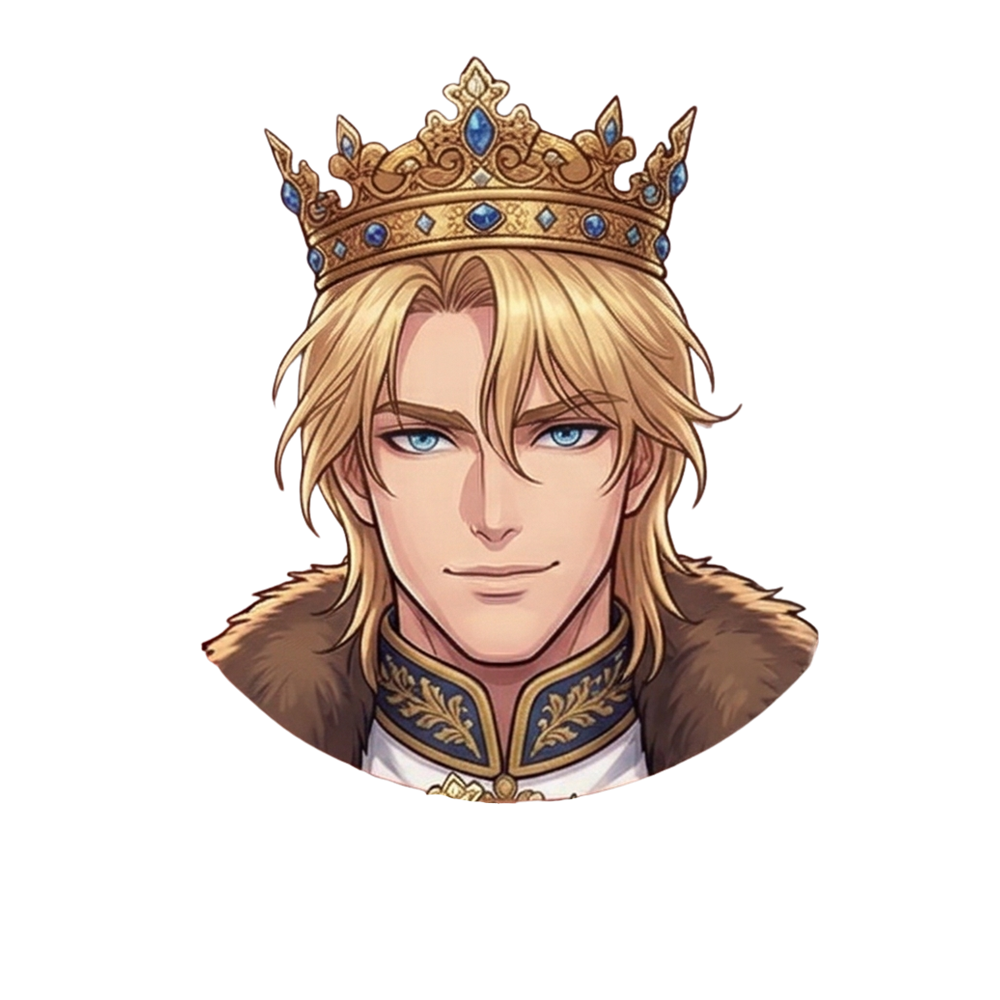
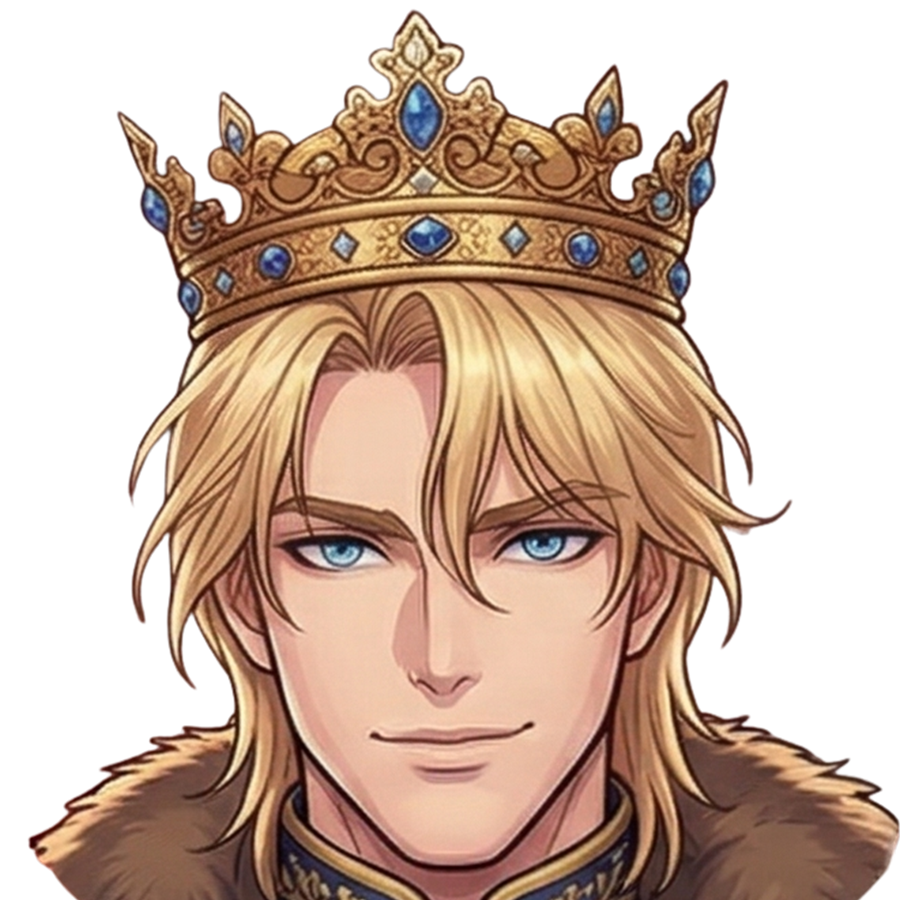
Chronicle portraits v2: headshot window crops, faces big AND uniform
The v981 normalization was wrong: it shrank every head onto a padded
square canvas, so portraits rendered smaller than before (the padding
baked empty margins into the images and defeated the card's
object-fit:cover zoom). Owner rejected it.

Redo from the RESTORED originals (checked out from 620aa92), measured
accurately this time: eye-line and chin marked per image at full size,
content bounds auto-detected via alpha scan. Each portrait is now a
square WINDOW crop cut from the source (no shrink-to-fit padding):
eye-to-chin = 32% of frame with the eye-line at 50% frame height for
all characters, content filling the frame edge-to-edge like the
original tight crops. Exceptions handled per image: Caspian keeps his
full crown (window anchored above it; his source also has a baked
background so the window stays inside bounds), Proto's tighter source
gets a slightly wider window (4% side margins, hidden by the card's
vignette mask). Output 900x900.

Verified live on the Chronicle: active panel is big again (matches the
pre-v981 look), and all three roster groups render at matching face
scale and eye height (Alistair/Elian/Lyra, Lyra/Caspian/Lucien,
Lucien/Noir/Proto screenshots).

diff --git a/sw.js b/sw.js
@@ -1,4 +1,4 @@
-const CACHE_NAME = 'pocket-love-v981';
+const CACHE_NAME = 'pocket-love-v982';
 
 // -----------------------------------------------------------------------------
 // CORE_ASSETS — the manifest. Must match the <script> tags in index.html so
